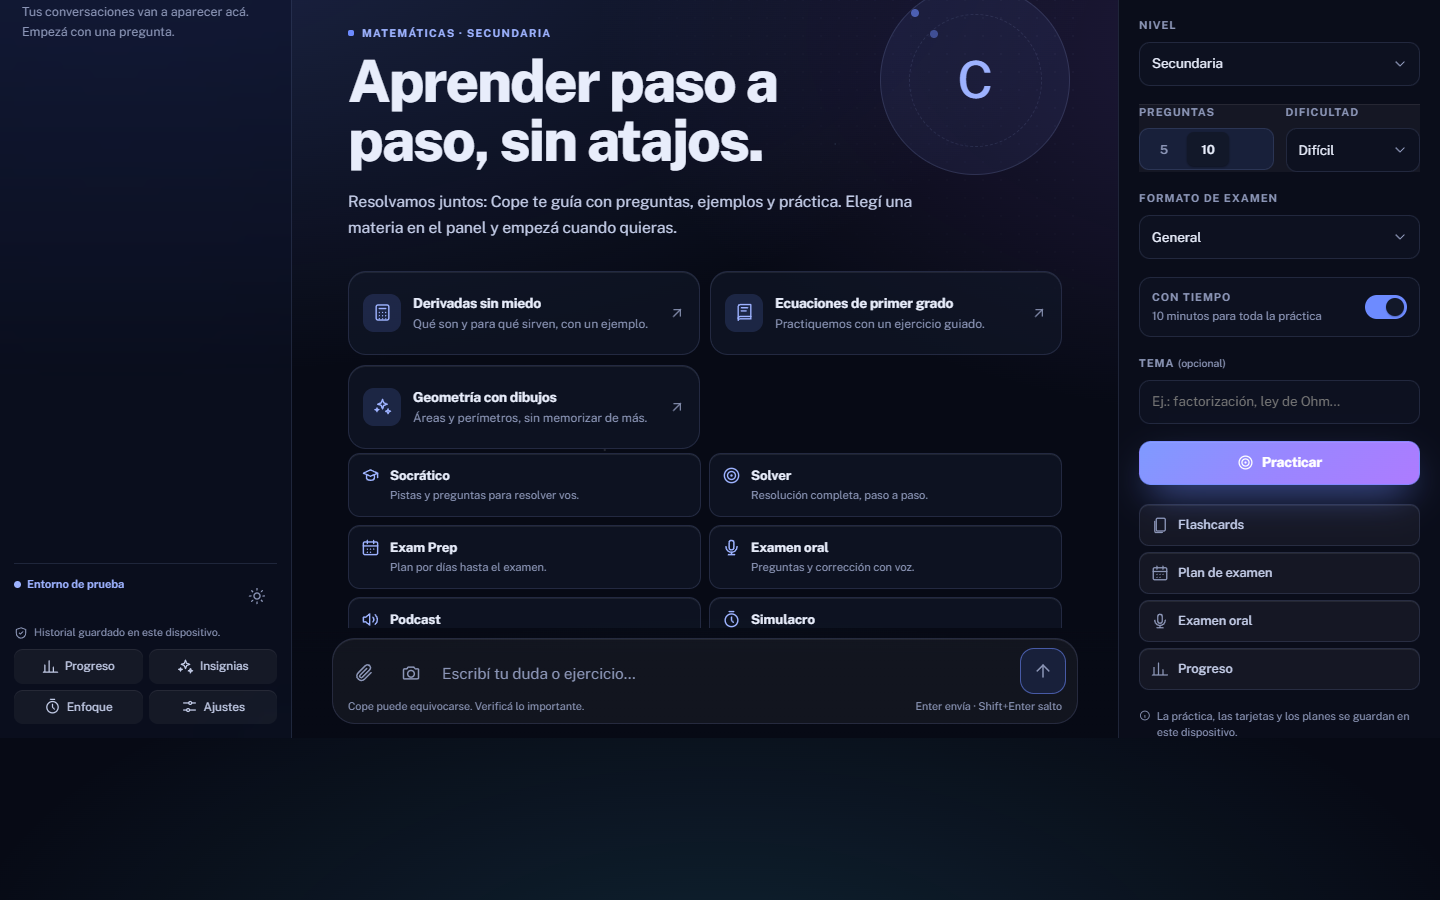
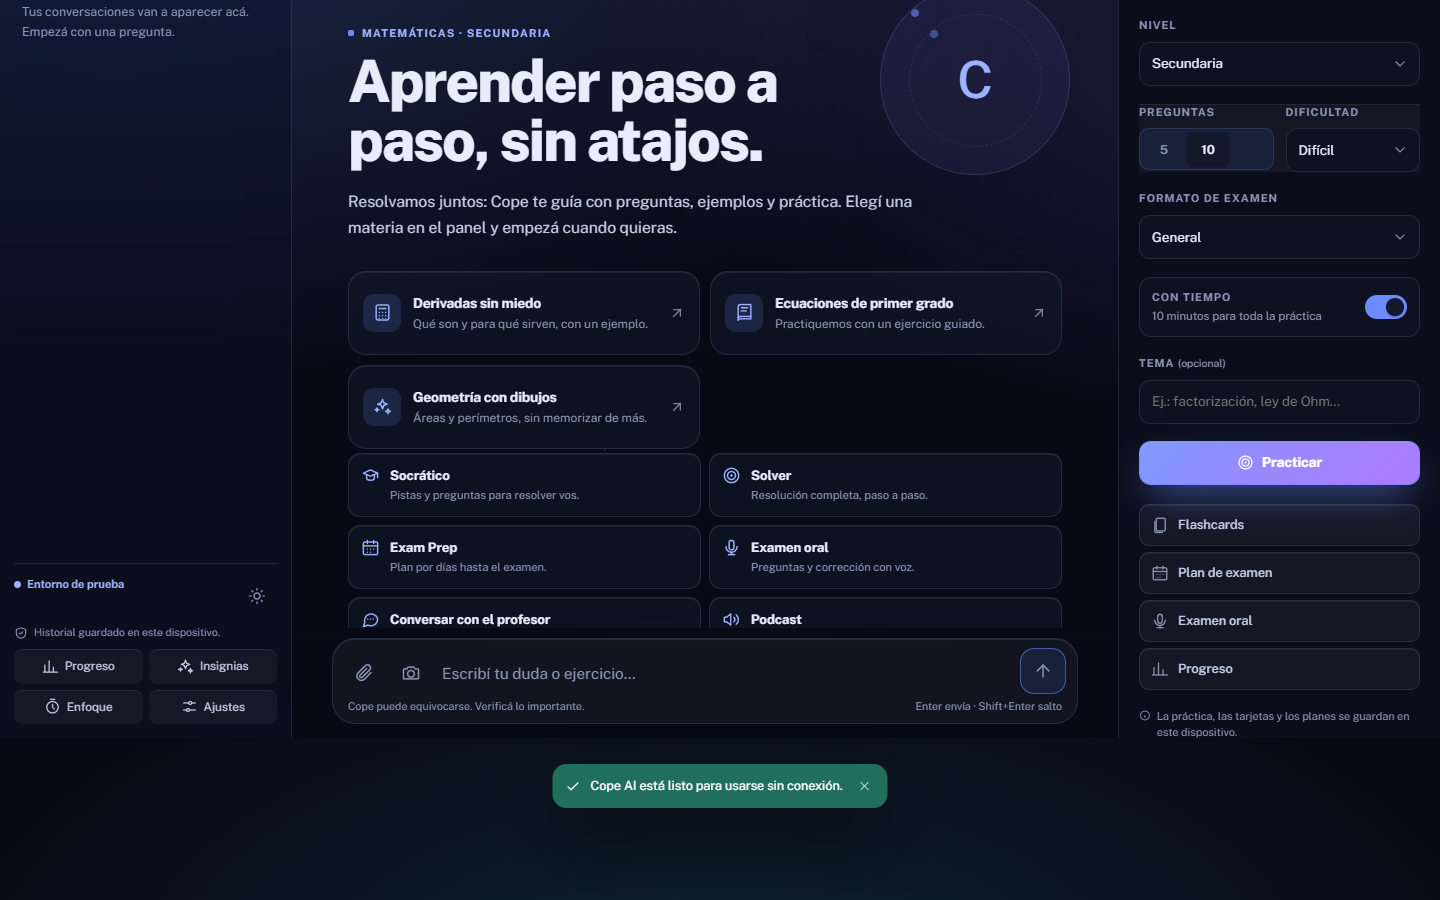
docs: actualiza capturas y traspaso con los arreglos de los avisos
Regenera las capturas de docs/ con el tema oscuro por defecto y documenta en HANDOFF-ASTRA.md los dos bugs de la tercera tanda (toast fuera de pantalla y avisos que se pisan entre si), con la forma de reproducir el fallo intermitente.

Changed region(s): [[0.375, 0.84, 0.625, 0.9022], [0.25, 0.6844, 0.375, 0.7156], [0.5, 0.6844, 0.5625, 0.7156]]

diff --git a/docs/HANDOFF-ASTRA.md b/docs/HANDOFF-ASTRA.md
@@ -98,11 +98,87 @@ npm run test:e2e      # Playwright (opcional, tarda)
 ```
 
 Tests agregados: `src/lib/achievements.test.ts`,
-`src/lib/studyLog.test.ts`, `src/lib/generationProgress.test.ts`.
+`src/lib/studyLog.test.ts`, `src/lib/generationProgress.test.ts`,
+`src/lib/theme.test.ts`, `src/lib/toastQueue.test.ts`.
 
 Para ver la barra de carga hace falta una respuesta que tarde: con la IA de
 nube gratuita (Pollinations) la espera es visible de entrada; con fixtures
 (`COPE_DEMO=1`) es demasiado rápida.
+
+## Segunda tanda: arranque en oscuro y pantalla de bienvenida
+
+Después del merge del rediseño quedaron sueltos dos detalles del tema:
+
+- `public/theme-init.js` resolvía el tema por la preferencia del sistema, así
+  que la app **pintaba en claro antes de montar React** y después saltaba al
+  oscuro. Ahora coincide con `getStoredTheme()`: sin preferencia guardada
+  arranca en oscuro, y "system" se respeta explícitamente.
+- `index.html`, `vite.config.ts` (manifest de la PWA) y `twa/twa-manifest.json`
+  seguían con la paleta crema/terracota original. Ya usan la paleta Astra.
+- La pantalla de bienvenida (`.onboardingScreen`) conservaba el look cálido.
+  Ahora usa tokens propios (`--onb-*` en `tokens.css`), porque es oscura en los
+  dos temas, y la capa `astra.css` la repinta: fondo espacial con estrellas,
+  tarjeta de cristal, botón gradiente y acentos cian.
+
+## Tercera tanda: dos bugs reales de la capa oscura y de los avisos
+
+Con el tema oscuro como predeterminado aparecieron dos defectos que no eran
+solo de tests. Los dos quedaron corregidos y con guarda de regresión.
+
+### 1. El toast quedaba fuera de pantalla en tema oscuro
+
+`astra.css` tenía esta regla para que el fondo con estrellas quedara detrás
+del contenido:
+
+```css
+[data-theme='dark'] .appShell > * {
+  position: relative;   /* ← pisaba el position: fixed del toast */
+  z-index: 1;
+}
+```
+
+El `.toast` es hijo directo de `.appShell`, así que en oscuro perdía su
+`position: fixed` y, al ser `.appShell` un flex container, quedaba en
+`left: 50%` de una caja de 1440 px pero desplazado: se medía en `x=1662,
+y=-92` en un viewport de 1440×900. El aviso seguía en el DOM, pero el usuario
+no lo veía.
+
+**Arreglo** (en `src/styles/astra.css`): no tocar `position` de los hijos. Las
+estrellas pasan a `z-index: -1` y `.appShell` gana `isolation: isolate`, que
+crea un contexto de apilamiento propio: así quedan por encima del fondo del
+shell y por debajo del contenido, sin forzar el posicionamiento de nadie.
+
+```css
+.appShell { isolation: isolate; }
+[data-theme='dark'] .appShell::before { z-index: -1; }
+```
+
+### 2. Un aviso tapaba y perdía al anterior
+
+El sistema de avisos guardaba **un solo mensaje**. Cuando la PWA terminaba de
+instalarse (`onOfflineReady`) y avisaba "Cope AI está listo para usarse sin
+conexión", ese mensaje **reemplazaba** al "Enfoque completado" de una sesión
+de enfoque, que se perdía. La carrera depende del service worker, así que
+aparecía de forma intermitente.
+
+**Arreglo**: los avisos ahora se **encolan** (`src/lib/toastQueue.ts`, con
+`src/lib/toastQueue.test.ts`). El que está en pantalla es el primero de la
+cola; cuando se descarta, pasa el siguiente. `Toast.tsx` ahora recibe
+`onDismiss(id)` para poder sacar solo el aviso que corresponde.
+
+### Guardas de regresión
+
+- `e2e/focus.spec.ts` comprueba que el toast **caiga dentro del viewport**
+  (bbox contenida en el tamaño de pantalla), que es exactamente lo que fallaba
+  con el bug de `position`.
+- `src/lib/toastQueue.test.ts` fija que un aviso nuevo **no** pise al que está
+  en pantalla.
+
+> Cómo se debugueó: el fallo se reproducía de forma determinista con
+> `npx playwright test e2e/focus.spec.ts --repeat-each=3` (3 de 3 fallos) y
+> **no** con una corrida simple. Esa diferencia fue la pista: en las
+> repeticiones el service worker ya está en caché y su aviso de "listo sin
+> conexión" llega antes, tapando el del modo enfoque.
 
 ## Decisiones de diseño a respetar
 
@@ -167,3 +243,7 @@ bloque "Study suite" (por ejemplo `#f5c451` en las tarjetas de repaso SRS y
 `#1f6f5c` en un badge de conexión). Sobre el tema oscuro nuevo se ven
 ligeramente desalineados. Se pueden neutralizar desde `astra.css` sin tocar el
 archivo base; es el ajuste visual pendiente más visible.
+
+> Nota: la parte más visible de eso (la pantalla de bienvenida) ya se corrigió
+> en la segunda tanda. Lo que queda son acentos puntuales del bloque de repaso
+> SRS y el verde del toast de éxito, que son semánticos y no rompen nada.
